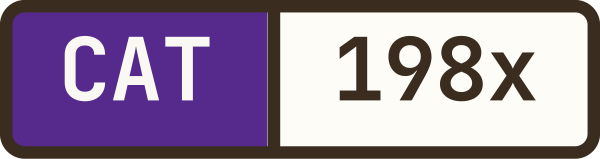
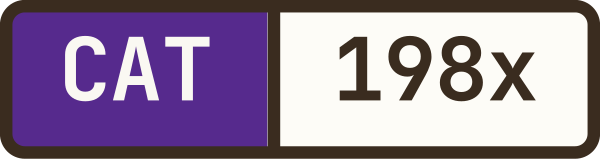
Outline the wordmark type so the SVG stops needing a font
The plate geometry is computed from JetBrains Mono's 600-unit advance and
the divider sits at a fixed offset, so a viewer without the font got a
fallback mono whose advance did not match a divider that does not move.
WORDMARK.md handled that by telling people to prefer the PNG wherever
they did not control the fonts, GitHub READMEs being the common case.

Emitting the type as outlines removes the problem rather than routing
around it. The SVG is now self-contained: no font to install, identical
everywhere, and the PNG goes back to being for the places that cannot
take an SVG at all rather than a workaround.

generate.py carries the 21 glyphs the nine names need as path data in
font units, and stays stdlib -- fontTools is needed only for the one-off
re-extraction documented in the docstring. Outlining freezes the type
into the asset, so a JetBrains Mono release no longer reflows the marks.
For a wordmark that is the intent.

Verified by rasterising the new SVG and comparing against the PNG
committed from the live-text version, which was rendered with the real
font: identical, 13919 bytes against 13972. All 18 parse, all carry the
right glyph count, and none references a font.

The type is no longer selectable, which for a wordmark is wanted --
ASM198x should not land in a copy of the page. role=img and <title>
carry the name to a screen reader as before.

diff --git a/wordmarks/generate.py b/wordmarks/generate.py
@@ -5,6 +5,25 @@ Geometry mirrors components/Plate.astro exactly. Change the component and this
 together, or the assets drift from what the sites render.
 
     python3 wordmarks/generate.py
+
+The type is emitted as outlines, not as <text>. The plate geometry is computed
+from JetBrains Mono's 600-unit advance, so a viewer without that font used to
+get a fallback mono whose advance did not match a divider that does not move.
+Outlines make the SVG self-contained: it renders identically everywhere, with
+no font dependency and nothing to install.
+
+GLYPHS below is the consequence -- the 21 characters the nine names need, in
+JetBrains Mono Bold, as path data in font units. Outlining freezes the type
+into the asset: a JetBrains Mono release no longer reflows the marks. That is
+deliberate for a wordmark. To take a new version, re-extract with:
+
+    from fontTools.ttLib import TTFont
+    from fontTools.pens.svgPathPen import SVGPathPen
+    f = TTFont("JetBrainsMono-Bold.ttf"); gs = f.getGlyphSet()
+    pen = SVGPathPen(gs, ntos=lambda v: str(int(round(v))))
+    gs[f.getBestCmap()[ord(ch)]].draw(pen); pen.getCommands()
+
+fontTools is needed for that one-off step only. This script is stdlib.
 """
 import pathlib
 
@@ -14,17 +33,63 @@ PROJECTS = {
     "isa": "#0f5158", "forge": "#721a6e", "play": "#424e0c",
 }
 
+UPEM = 1000          # JetBrains Mono units per em
+ADV_UNITS = 600      # its advance, the 0.6em the geometry above assumes
+
+# JetBrains Mono Bold, path data in font units. See the module docstring.
+GLYPHS = {
+    '1': "M84 0V113H274V609L83 469V609L251 730H399V113H552V0Z",
+    '8': "M300 -10Q227 -10 171 18Q115 45 84 94Q53 142 53 206Q53 273 92 323Q130 373 192 386V388Q139 399 106 442Q74 485 74 544Q74 602 102 646Q131 690 182 715Q233 740 300 740Q367 740 418 715Q470 690 498 646Q527 602 527 544Q527 485 494 442Q461 399 408 388V386Q470 373 508 323Q547 273 547 206Q547 142 516 94Q485 45 429 18Q373 -10 300 -10ZM300 431Q347 431 376 460Q405 488 405 533Q405 579 376 608Q347 636 300 636Q253 636 224 608Q195 579 195 533Q195 488 224 460Q253 431 300 431ZM300 96Q355 96 390 128Q425 160 425 212Q425 265 390 298Q355 330 300 330Q245 330 210 298Q175 265 175 212Q175 160 210 128Q245 96 300 96Z",
+    '9': "M175 0 346 295Q334 286 318 280Q302 273 270 273Q210 273 160 302Q111 331 82 382Q53 434 53 502Q53 574 84 628Q114 681 170 710Q225 740 300 740Q375 740 430 710Q486 680 516 626Q547 571 547 498Q547 455 528 400Q510 344 478 287L320 0ZM300 373Q356 373 390 408Q424 444 424 504Q424 563 390 598Q356 634 300 634Q244 634 210 598Q176 563 176 504Q176 444 210 408Q244 373 300 373Z",
+    'A': "M35 0 219 730H380L565 0H437L397 177H203L163 0ZM226 279H374L330 475Q319 524 311 564Q303 603 300 621Q297 603 289 564Q281 524 270 476Z",
+    'B': "M77 0V730H301Q406 730 468 679Q531 628 531 542Q531 482 496 439Q462 396 407 387V385Q448 380 480 356Q512 331 530 292Q548 254 548 208Q548 145 519 98Q490 51 437 26Q384 0 312 0ZM199 429H299Q348 429 377 456Q406 482 406 528Q406 573 378 600Q349 626 299 626H199ZM199 104H305Q360 104 392 134Q423 163 423 214Q423 265 392 296Q360 328 305 328H199Z",
+    'C': "M308 -10Q237 -10 185 16Q133 43 104 92Q76 140 76 206V524Q76 590 104 638Q133 687 185 714Q237 740 308 740Q378 740 430 714Q482 687 511 638Q540 590 540 524H414Q414 575 386 602Q359 630 308 630Q257 630 229 602Q201 575 201 524V206Q201 155 229 128Q257 100 308 100Q359 100 386 128Q414 155 414 206H540Q540 140 511 92Q482 43 430 16Q378 -10 308 -10Z",
+    'D': "M75 0V730H292Q366 730 420 702Q475 673 505 622Q535 571 535 502V229Q535 160 505 108Q475 57 420 28Q366 0 292 0ZM200 112H292Q346 112 378 144Q410 175 410 229V502Q410 555 378 586Q346 618 292 618H200Z",
+    'E': "M88 0V730H526V620H211V430H491V324H211V110H526V0Z",
+    'F': "M80 0V730H534V614H203V419H508V303H205V0Z",
+    'G': "M304 -10Q233 -10 181 16Q129 43 100 92Q72 140 72 206V524Q72 590 100 638Q129 687 181 714Q233 740 304 740Q374 740 426 714Q478 687 507 638Q536 590 536 524H410Q410 575 382 602Q355 630 304 630Q253 630 225 603Q197 576 197 525V206Q197 155 225 127Q253 99 304 99Q355 99 382 127Q410 155 410 206V287H286V395H536V206Q536 140 507 92Q478 43 426 16Q374 -10 304 -10Z",
+    'I': "M90 0V113H237V617H90V730H510V617H363V113H510V0Z",
+    'L': "M121 0V730H246V113H556V0Z",
+    'M': "M54 0V730H217L299 416L382 730H546V0H429V307Q429 370 432 438Q436 505 441 568Q446 632 452 684L349 317H246L147 675Q156 606 164 510Q171 415 171 307V0Z",
+    'O': "M300 -10Q195 -10 134 50Q72 110 72 216V514Q72 620 134 680Q195 740 300 740Q405 740 466 680Q528 620 528 515V216Q528 110 466 50Q405 -10 300 -10ZM300 100Q351 100 377 128Q403 155 403 206V524Q403 575 377 602Q351 630 300 630Q249 630 223 602Q197 575 197 524V206Q197 155 223 128Q249 100 300 100Z",
+    'P': "M77 0V730H320Q393 730 448 702Q502 674 532 624Q562 573 562 505Q562 437 532 386Q502 336 448 308Q393 280 320 280H202V0ZM202 390H320Q373 390 404 422Q435 454 435 505Q435 556 404 588Q373 620 320 620H202Z",
+    'R': "M77 0V730H307Q380 730 434 703Q487 676 517 628Q547 579 547 513Q547 440 511 386Q475 331 414 308L557 0H420L292 290H201V0ZM201 400H307Q360 400 390 429Q420 458 420 509Q420 560 390 590Q359 620 307 620H201Z",
+    'S': "M303 -10Q229 -10 174 16Q118 42 88 90Q57 139 57 206H180Q180 157 214 128Q247 99 303 99Q357 99 388 128Q420 156 420 204Q420 240 400 268Q379 295 341 305L243 330Q164 350 118 405Q72 460 72 536Q72 629 133 684Q194 740 296 740Q365 740 416 715Q468 690 496 644Q524 599 524 538H402Q402 580 373 606Q344 632 296 632Q249 632 222 606Q194 581 194 540Q194 506 214 484Q233 462 268 452L369 427Q450 407 496 347Q543 287 543 204Q543 139 514 91Q484 43 430 16Q376 -10 303 -10Z",
+    'T': "M237 0V617H46V730H554V617H363V0Z",
+    'U': "M300 -10Q193 -10 132 48Q72 107 72 208V730H198V209Q198 157 224 128Q250 99 300 99Q349 99 376 128Q402 157 402 209V730H528V208Q528 107 468 48Q408 -10 300 -10Z",
+    'Y': "M237 0V265L23 730H155L268 477Q281 447 290 418Q299 389 302 373Q306 389 314 418Q323 447 336 477L447 730H577L363 265V0Z",
+    'x': "M36 0 228 284 49 550H190L275 415Q283 403 290 388Q297 373 300 364Q304 373 310 388Q317 403 325 415L410 550H552L373 284L564 0H422L327 151Q319 163 312 178Q304 194 300 203Q296 194 289 178Q282 163 274 151L178 0Z",
+}
+
 F = 48.0            # cell type size
 ADV = 0.6 * F       # JetBrains Mono advance width
 PAD_X = 0.6 * F     # matches padding: … 0.6em
 PAD_Y = 0.34 * F    # matches padding: 0.34em …
 STROKE = 2.0 / 14.0 * F   # the component's 2px border at font-size 14
+LETTER_SPACING_UNITS = -10   # the component's -0.01em, in font units
 RADIUS = 3.0 / 14.0 * F
 
 THEMES = {
     "light": {"frame": "#3a2c1f", "cell": "#fdfcf7", "ink": "#3a2c1f", "fill_ink": "#faf8f2"},
     "dark":  {"frame": "#efe7d6", "cell": "#242019", "ink": "#efe7d6", "fill_ink": "#faf8f2"},
 }
+
+
+def run(text: str, x: float, y: float, fill: str) -> str:
+    """One text run as outlines: a scaled group, one path per glyph.
+
+    scale(s, -s) flips the y axis, so path data stays in readable font units
+    and the baseline lands on y exactly where the <text> version put it.
+    """
+    s = F / UPEM
+    step = ADV_UNITS + LETTER_SPACING_UNITS
+    paths = []
+    for i, ch in enumerate(text):
+        dx = f' transform="translate({i * step} 0)"' if i else ""
+        paths.append(f'<path d="{GLYPHS[ch]}"{dx}/>')
+    inner = "".join(paths)
+    return (f'<g fill="{fill}" transform="translate({x:.1f} {y:.1f}) '
+            f'scale({s:.3f} -{s:.3f})">{inner}</g>')
 
 
 def plate(prefix: str, fill: str, theme: dict) -> str:
@@ -49,11 +114,8 @@ def plate(prefix: str, fill: str, theme: dict) -> str:
           fill="none" stroke="{theme['frame']}" stroke-width="{STROKE:.1f}"/>
     <line x1="{o + w_l + STROKE/2:.1f}" y1="{o:.1f}" x2="{o + w_l + STROKE/2:.1f}" y2="{o + h:.1f}"
           stroke="{theme['frame']}" stroke-width="{STROKE:.1f}"/>
-    <g font-family="JetBrains Mono, ui-monospace, monospace" font-size="{F:.1f}" font-weight="700"
-       letter-spacing="{-0.01 * F:.2f}">
-      <text x="{o + PAD_X:.1f}" y="{baseline:.1f}" fill="{theme['fill_ink']}">{left}</text>
-      <text x="{o + w_l + STROKE + PAD_X:.1f}" y="{baseline:.1f}" fill="{theme['ink']}">{right}</text>
-    </g>
+    {run(left, o + PAD_X, baseline, theme['fill_ink'])}
+    {run(right, o + w_l + STROKE + PAD_X, baseline, theme['ink'])}
   </g>
 </svg>
 '''
@@ -71,8 +133,9 @@ if __name__ == "__main__":
             svg = out / f"{name}198x-{theme_name}.svg"
             svg.write_text(plate(name, fill, theme))
             n += 1
-            # PNG as well: the SVG sets the type in JetBrains Mono, which a
-            # viewer may not have. A raster always looks right.
+            # PNG as well, for the places that cannot take an SVG at all --
+            # some mail clients, some social card scrapers. Not a font
+            # workaround any more: the SVG carries its own outlines.
             if rsvg:
                 subprocess.run(
                     [rsvg, "-w", "600", str(svg), "-o", str(svg.with_suffix(".png"))],

diff --git a/WORDMARK.md b/WORDMARK.md
@@ -21,6 +21,12 @@ than stylistic: it puts every cell on the same rhythm, so a three-character
 prefix and a five-character one differ in width without looking inconsistent.
 A proportional face makes nine plates look like nine unrelated marks.
 
+Load-bearing in a literal sense too: the plate geometry is computed from the
+face's 600-unit advance, and the divider is placed at a fixed offset. That is
+why the ready-made assets carry the type as **outlines rather than live text** —
+a substituted mono has a different advance, and the divider does not move to
+meet it.
+
 **The frame is constant.** House brown `#3a2c1f` on light, paper `#efe7d6` on
 dark — never the project colour. It is what makes nine fills of differing
 strength read as one set, and it does more work than the fill does.
@@ -66,9 +72,14 @@ wordmarks/asm198x-light.svg   wordmarks/asm198x-light.png
 wordmarks/asm198x-dark.svg    wordmarks/asm198x-dark.png
 ```
 
-**Prefer the PNG where you do not control the fonts.** The SVG sets its type in
-JetBrains Mono; a viewer without it gets a fallback mono and the geometry no
-longer matches. GitHub READMEs are the common case.
+**Use the SVG anywhere.** It carries its own outlines, so it needs no font
+installed and renders identically everywhere — GitHub READMEs included, which
+used to be the case that forced the PNG. The PNG remains for the places that
+cannot take an SVG at all: some mail clients, some social-card scrapers.
+
+The type is not selectable in the SVG, which for a wordmark is the intent
+rather than a cost — `ASM198x` should not land in someone's copy of the page.
+`role="img"` and the `<title>` carry the name to a screen reader either way.
 
 Regenerate with `python3 wordmarks/generate.py`. The geometry there mirrors
 `Plate.astro` — change both together or the assets drift from what the sites
